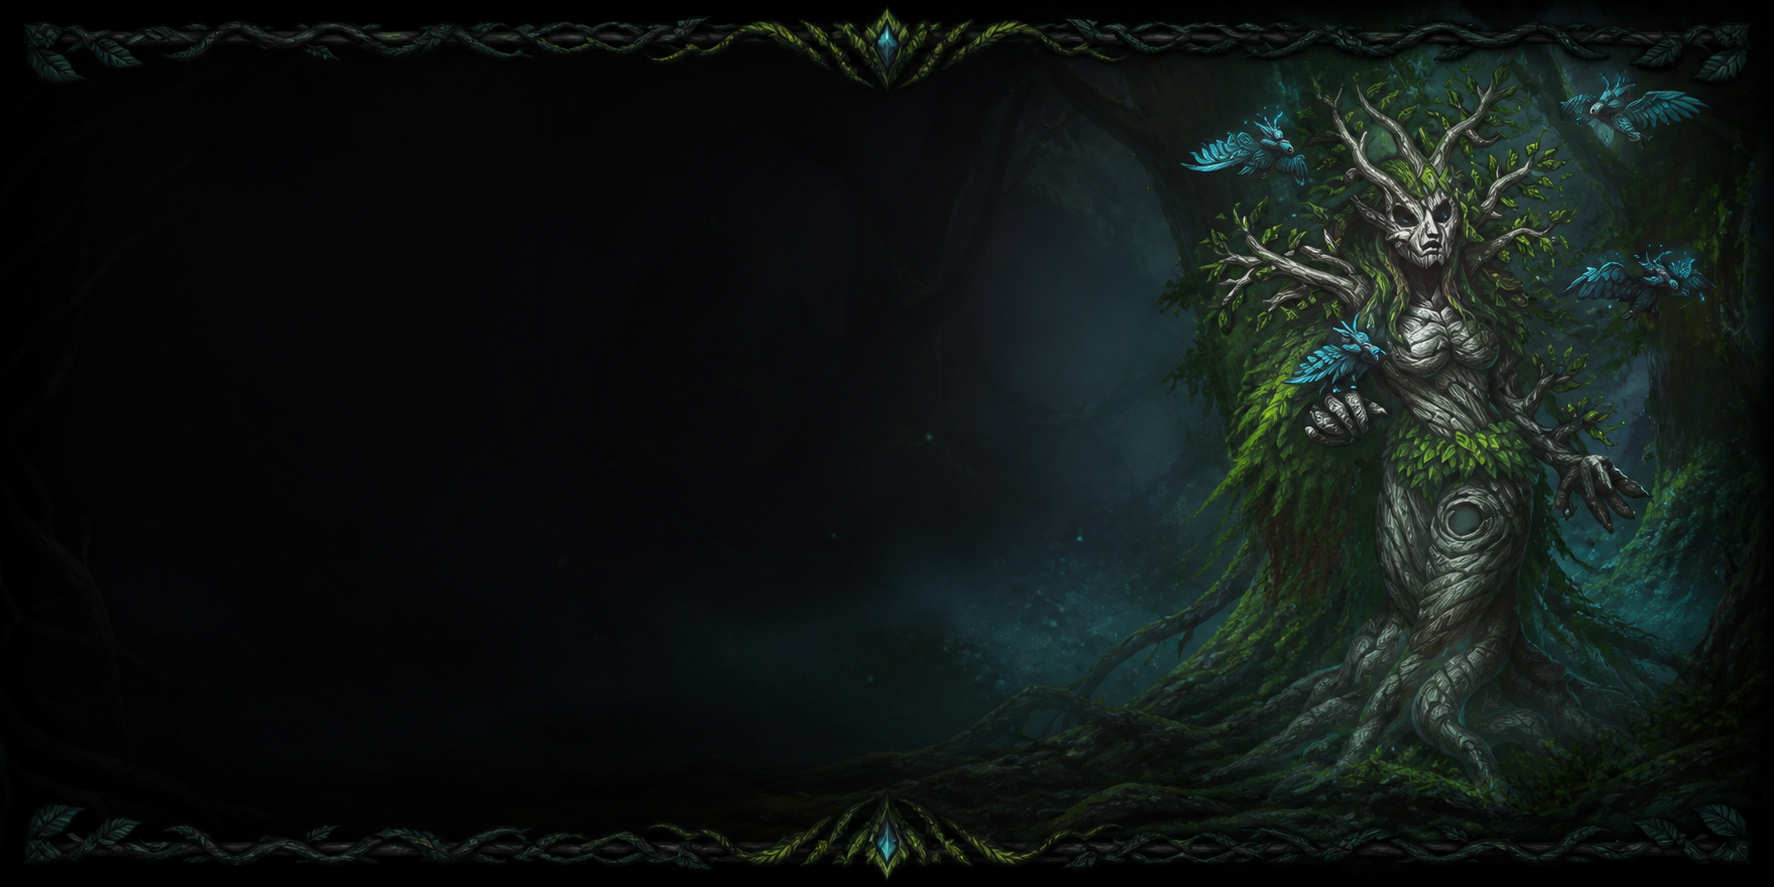
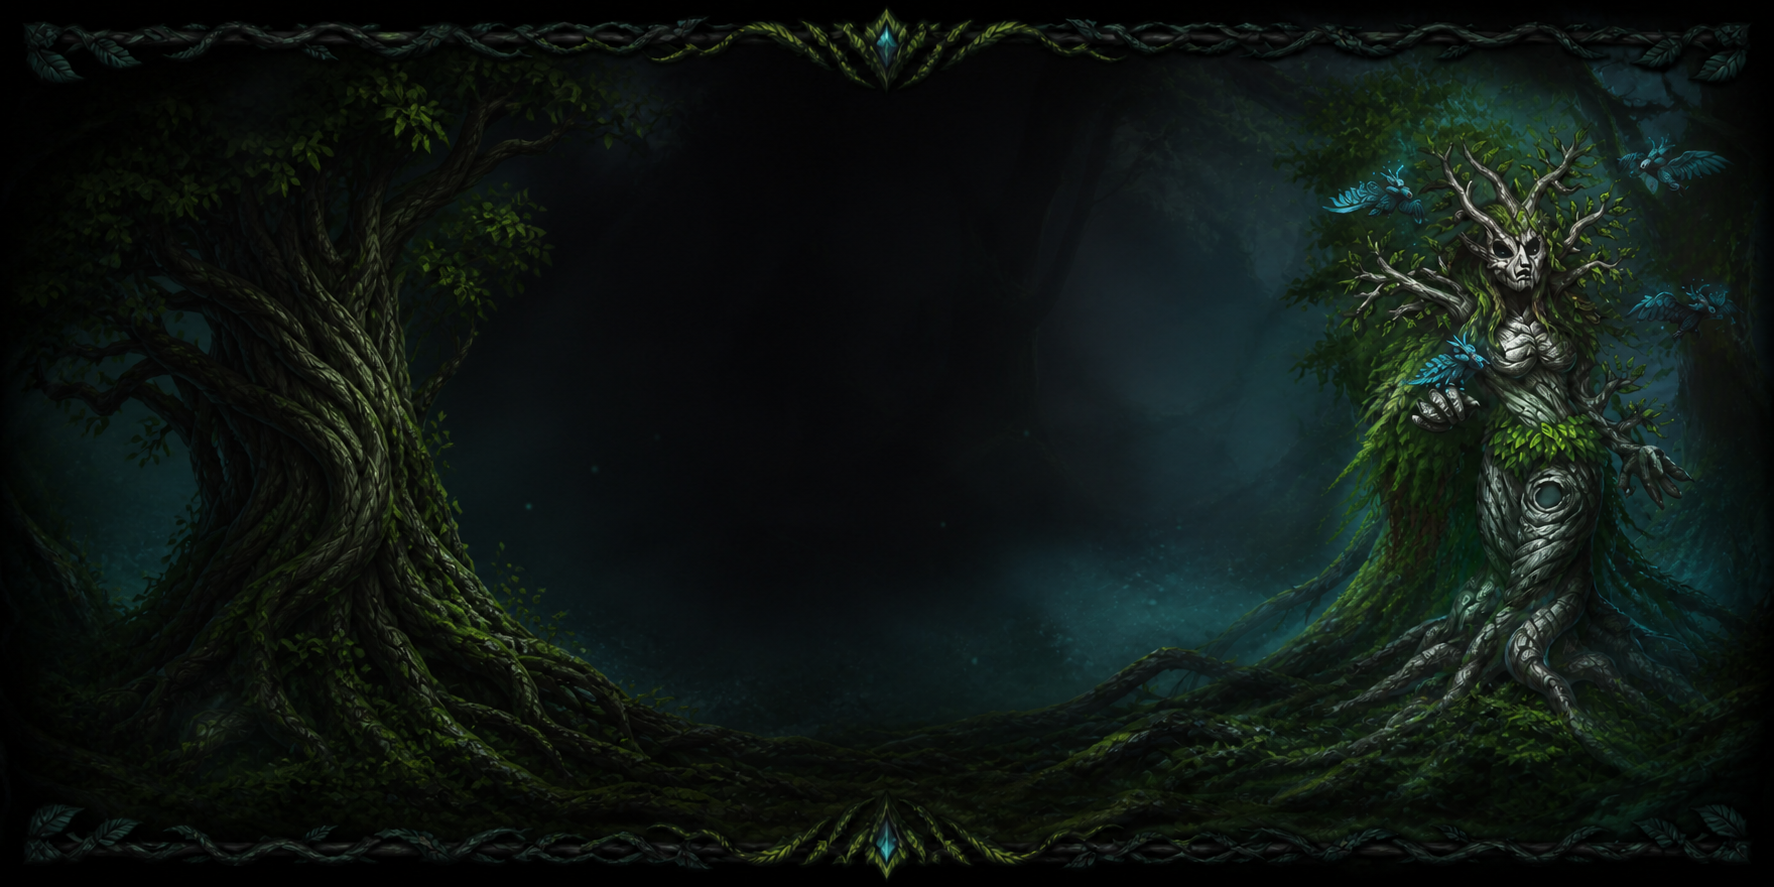
Add forest tree to Huntress background

diff --git a/Margonem-Crimson-Character-Backgrounds.user.js b/Margonem-Crimson-Character-Backgrounds.user.js
@@ -1,7 +1,7 @@
 // ==UserScript==
 // @name         Margonem Crimson - Tła postaci
 // @namespace    https://github.com/bSlawek-03/Margonem-Crimson
-// @version      4.6.0
+// @version      4.7.0
 // @description  Panel do przypisywania RAW tła do postaci Margonem.
 // @author       Slawek
 // @match        https://*.margonem.pl/*
@@ -15,7 +15,7 @@
 (() => {
   'use strict';
 
-  const STORAGE_KEY = 'margonem-crimson-character-backgrounds-v8';
+  const STORAGE_KEY = 'margonem-crimson-character-backgrounds-v9';
 
   const characters = [
     { key: 'fourhead', label: 'Fourhead', level: '114', slot: 1 },
@@ -29,12 +29,12 @@
   const knownCharacters = characters.map((item) => item.key);
 
   const defaultUrls = {
-    fourhead: 'https://raw.githubusercontent.com/bSlawek-03/Margonem-Crimson/main/assets/titan-renegat-baulus-background.png?v=6',
-    twohead: 'https://raw.githubusercontent.com/bSlawek-03/Margonem-Crimson/main/assets/crimson-archdemon-background.png?v=6',
-    onehawk: 'https://raw.githubusercontent.com/bSlawek-03/Margonem-Crimson/main/assets/titan-versus-zoons-background.png?v=6',
-    threebane: 'https://raw.githubusercontent.com/bSlawek-03/Margonem-Crimson/main/assets/titan-lowcz-driady-background.png?v=6',
-    fivefang: 'https://raw.githubusercontent.com/bSlawek-03/Margonem-Crimson/main/assets/titan-tezcatlipoca-background.png?v=6',
-    'po prostu slawek': 'https://raw.githubusercontent.com/bSlawek-03/Margonem-Crimson/main/assets/titan-ice-king-background.png?v=6'
+    fourhead: 'https://raw.githubusercontent.com/bSlawek-03/Margonem-Crimson/main/assets/titan-renegat-baulus-background.png?v=7',
+    twohead: 'https://raw.githubusercontent.com/bSlawek-03/Margonem-Crimson/main/assets/crimson-archdemon-background.png?v=7',
+    onehawk: 'https://raw.githubusercontent.com/bSlawek-03/Margonem-Crimson/main/assets/titan-versus-zoons-background.png?v=7',
+    threebane: 'https://raw.githubusercontent.com/bSlawek-03/Margonem-Crimson/main/assets/titan-lowcz-driady-background.png?v=7',
+    fivefang: 'https://raw.githubusercontent.com/bSlawek-03/Margonem-Crimson/main/assets/titan-tezcatlipoca-background.png?v=7',
+    'po prostu slawek': 'https://raw.githubusercontent.com/bSlawek-03/Margonem-Crimson/main/assets/titan-ice-king-background.png?v=7'
   };
 
   const defaults = Object.fromEntries(characters.map((item) => [item.key, {
